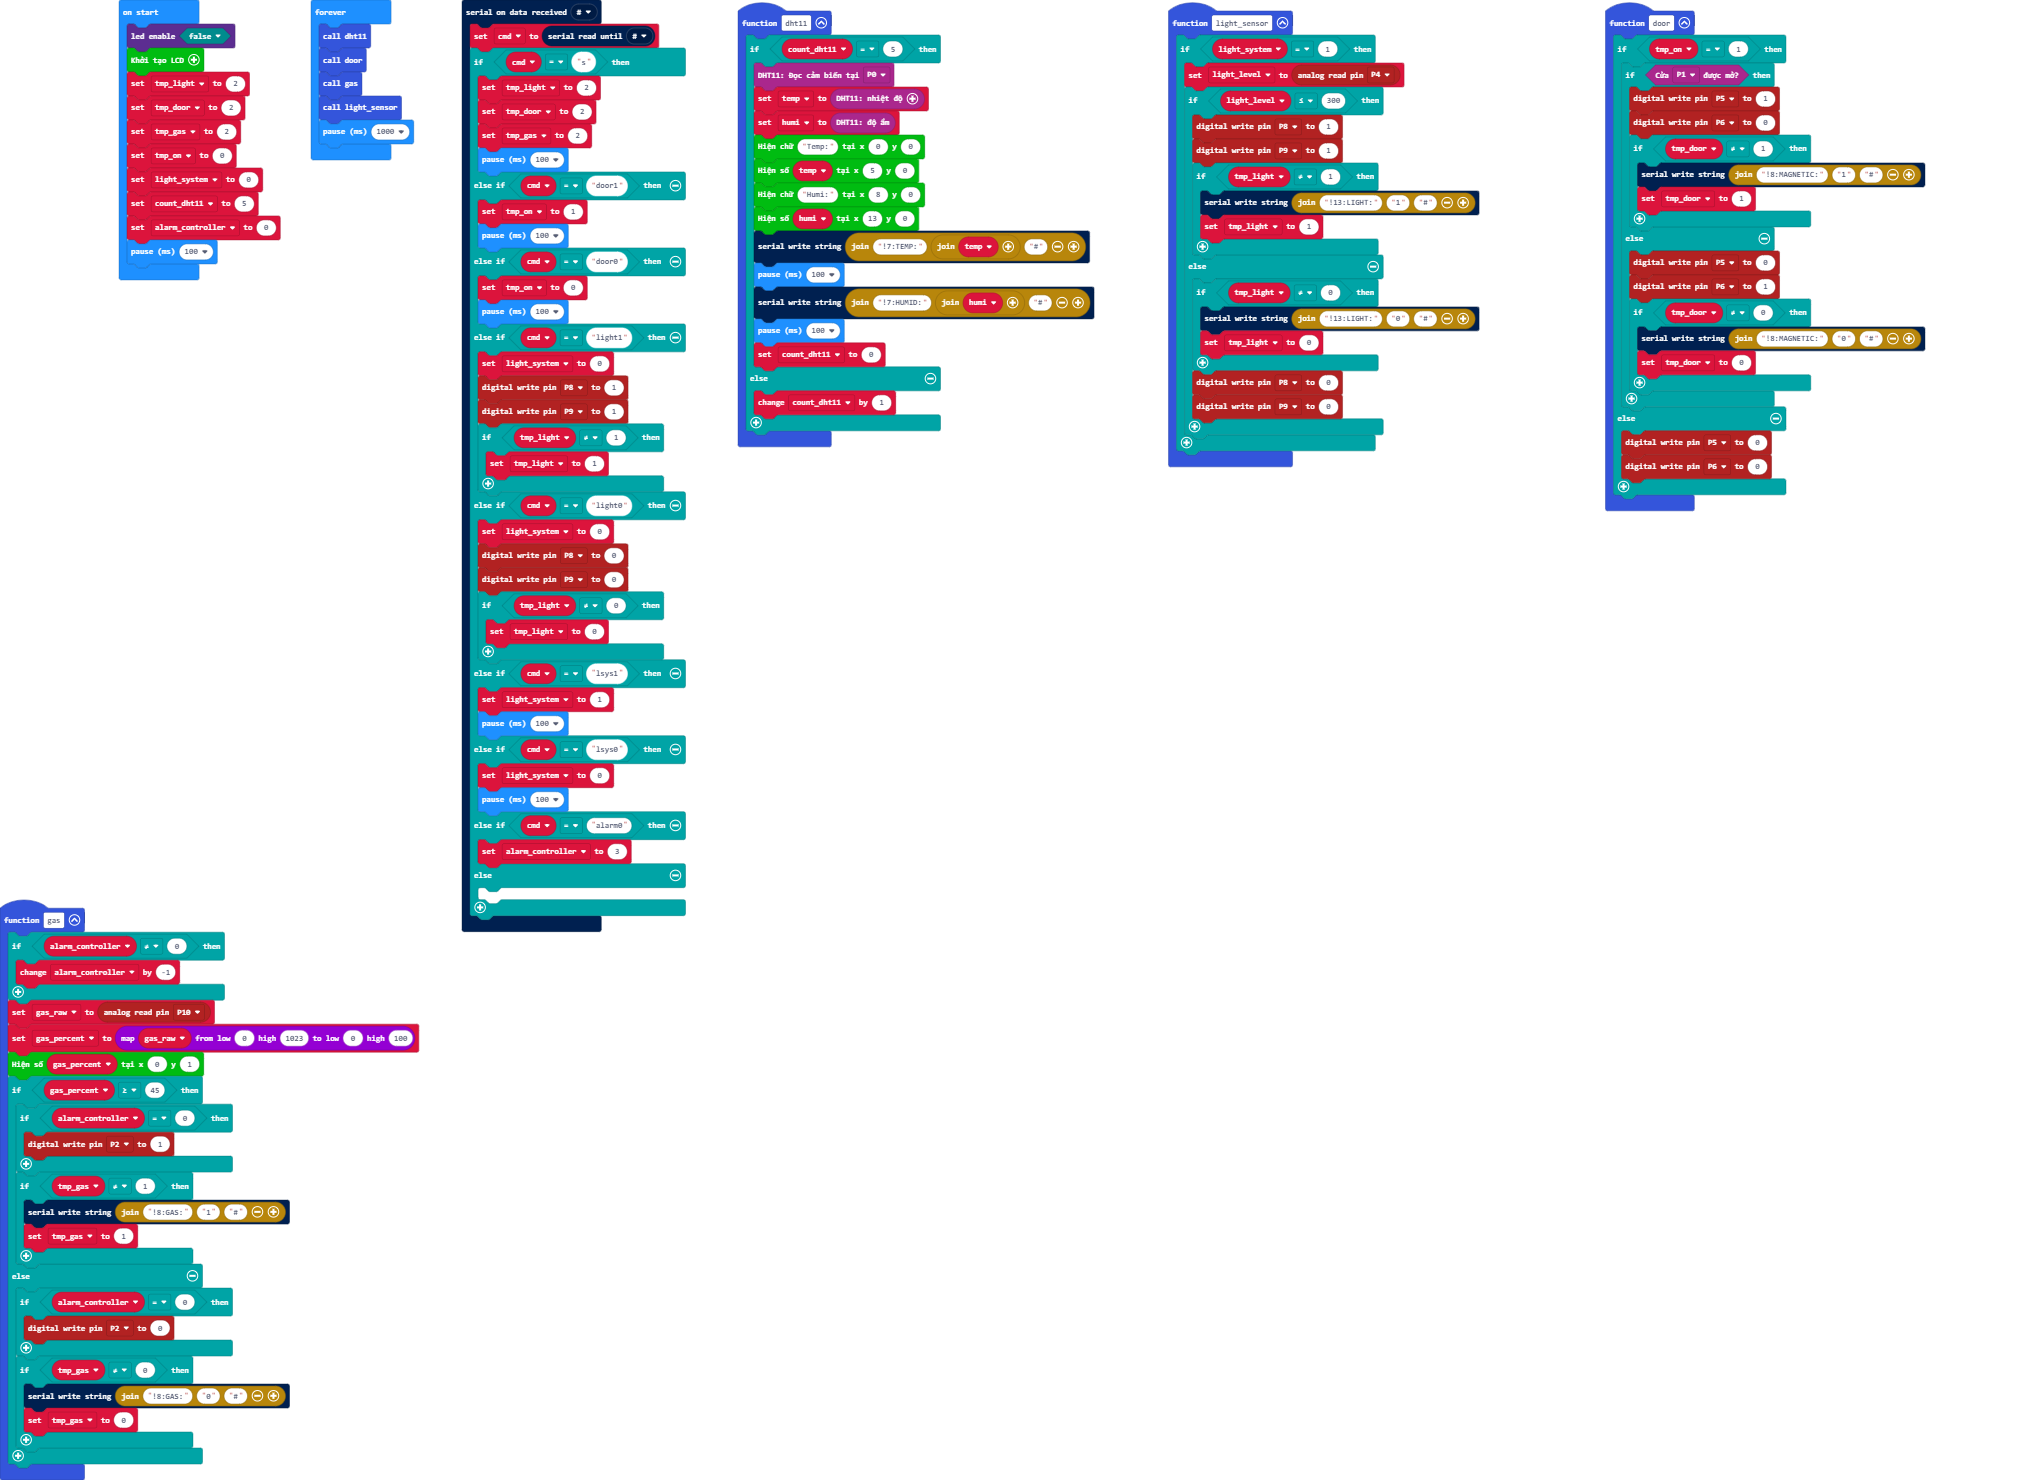
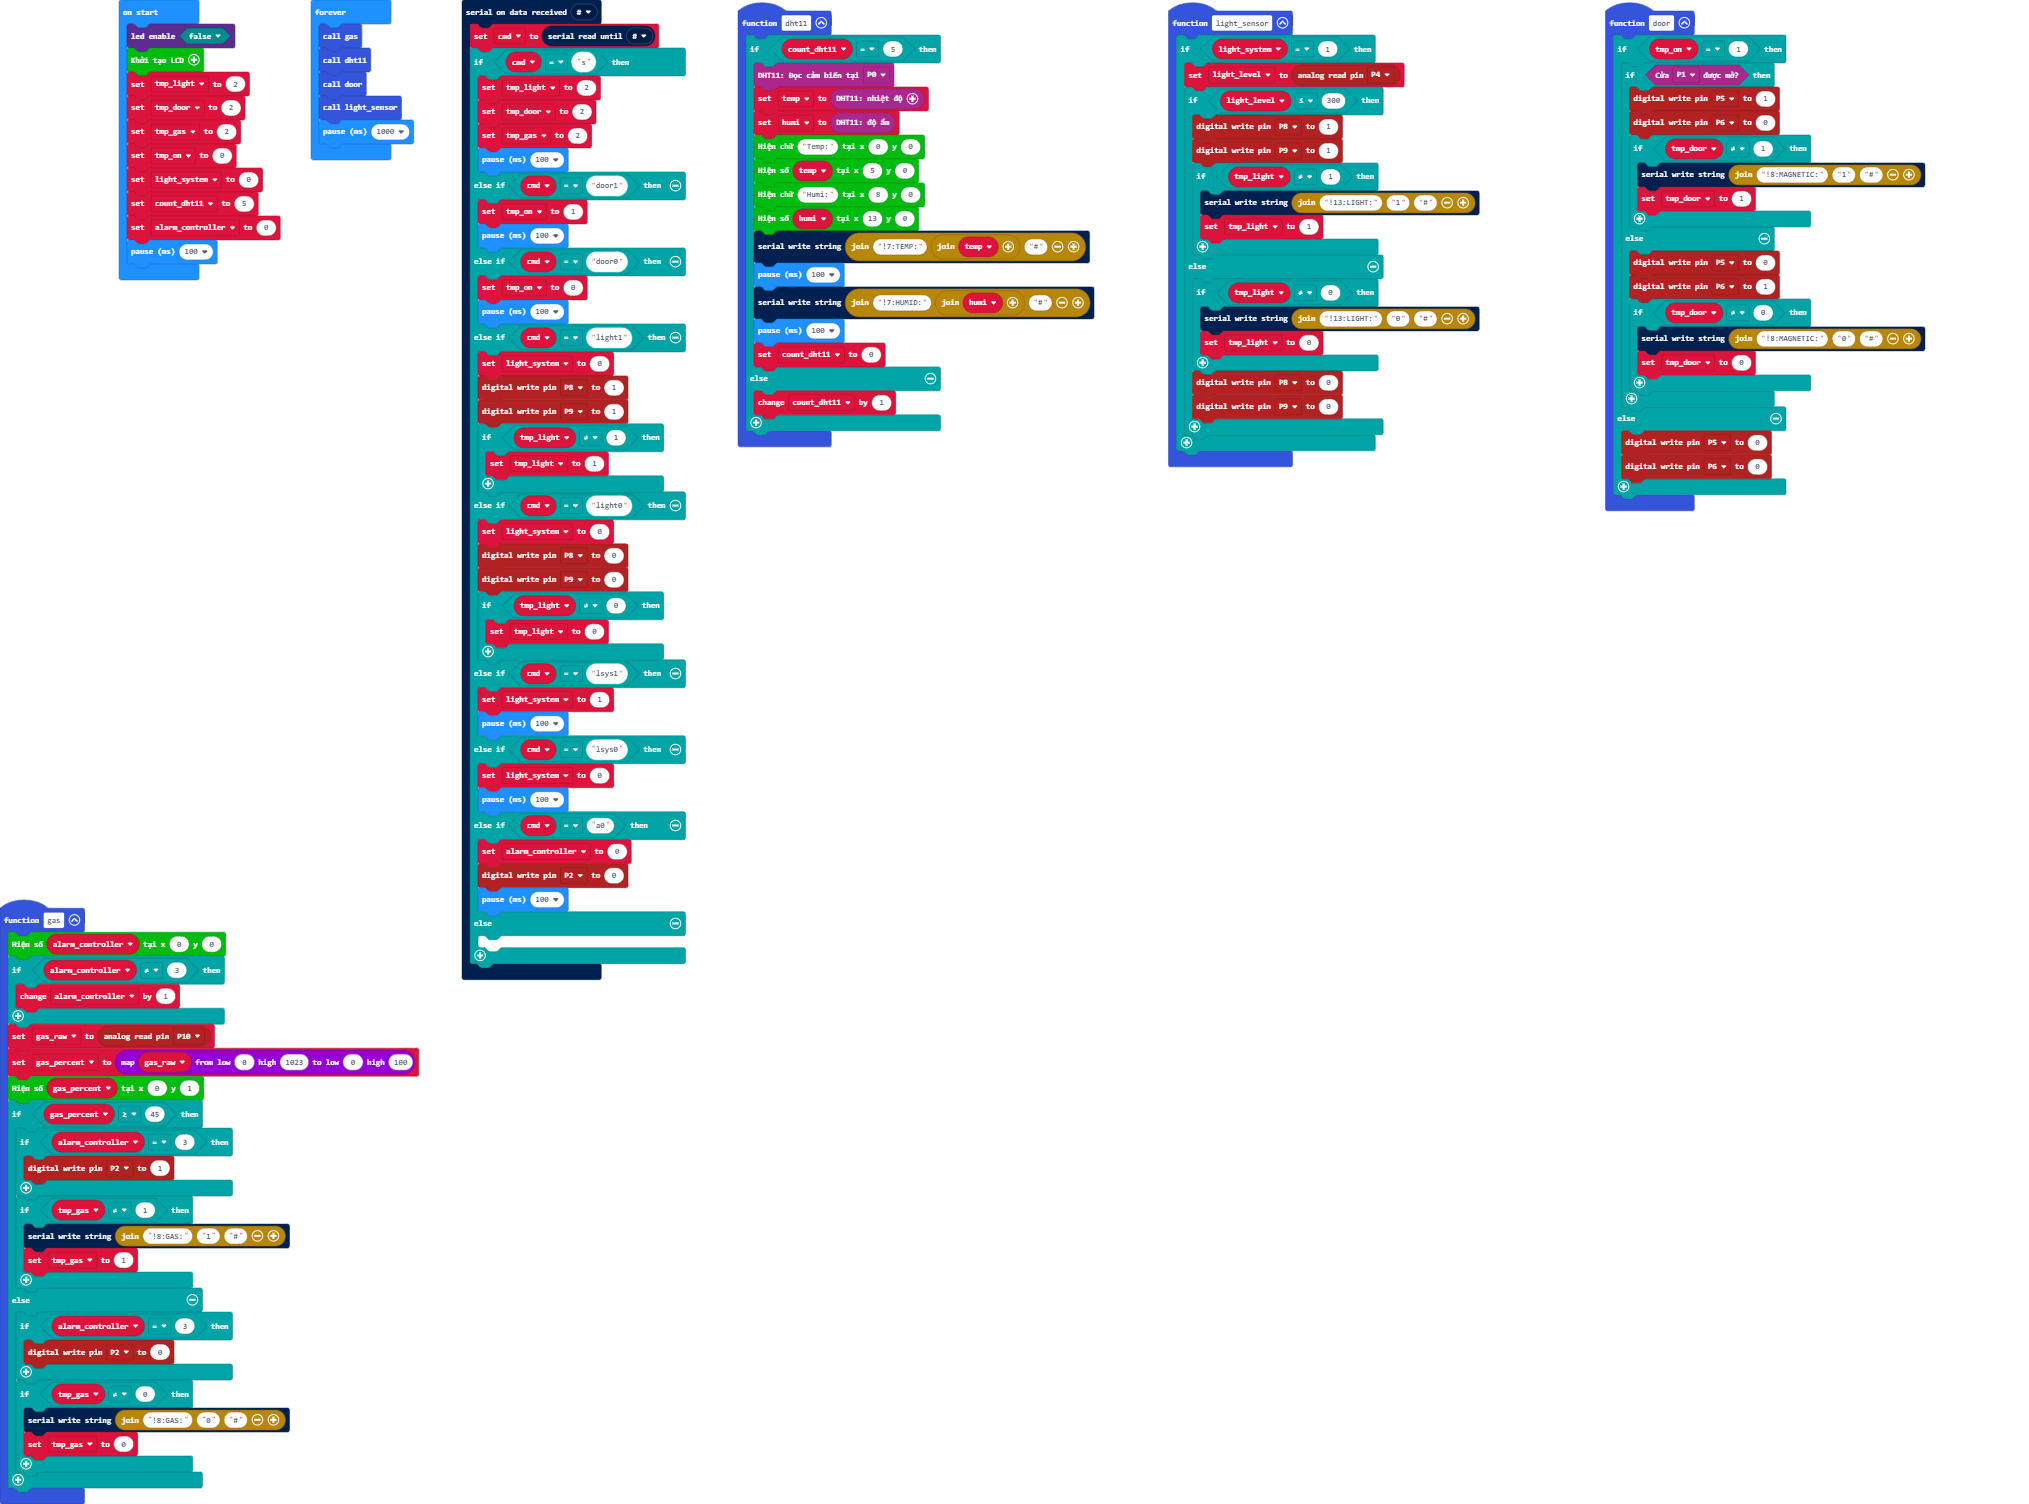
update alarm controller

diff --git a/main.ts b/main.ts
@@ -59,14 +59,15 @@ function door () {
     }
 }
 function gas () {
-    if (alarm_controller != 0) {
-        alarm_controller += -1
+    NPNLCD.ShowNumber(alarm_controller, 0, 0)
+    if (alarm_controller != 3) {
+        alarm_controller += 1
     }
     gas_raw = pins.analogReadPin(AnalogPin.P10)
     gas_percent = Math.map(gas_raw, 0, 1023, 0, 100)
     NPNLCD.ShowNumber(gas_percent, 0, 1)
     if (gas_percent >= 45) {
-        if (alarm_controller == 0) {
+        if (alarm_controller == 3) {
             pins.digitalWritePin(DigitalPin.P2, 1)
         }
         if (tmp_gas != 1) {
@@ -74,7 +75,7 @@ function gas () {
             tmp_gas = 1
         }
     } else {
-        if (alarm_controller == 0) {
+        if (alarm_controller == 3) {
             pins.digitalWritePin(DigitalPin.P2, 0)
         }
         if (tmp_gas != 0) {
@@ -116,8 +117,10 @@ serial.onDataReceived(serial.delimiters(Delimiters.Hash), function () {
     } else if (cmd == "lsys0") {
         light_system = 0
         basic.pause(100)
-    } else if (cmd == "alarm0") {
-        alarm_controller = 3
+    } else if (cmd == "a0") {
+        alarm_controller = 0
+        pins.digitalWritePin(DigitalPin.P2, 0)
+        basic.pause(100)
     } else {
     	
     }
@@ -146,9 +149,9 @@ count_dht11 = 5
 alarm_controller = 0
 basic.pause(100)
 basic.forever(function () {
+    gas()
     dht11()
     door()
-    gas()
     light_sensor()
     basic.pause(1000)
 })
